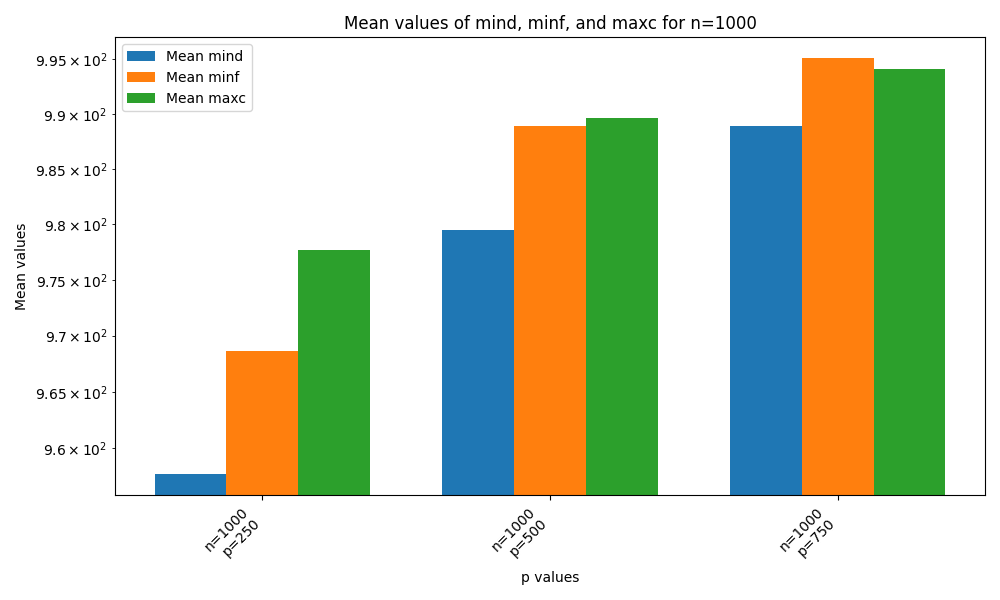
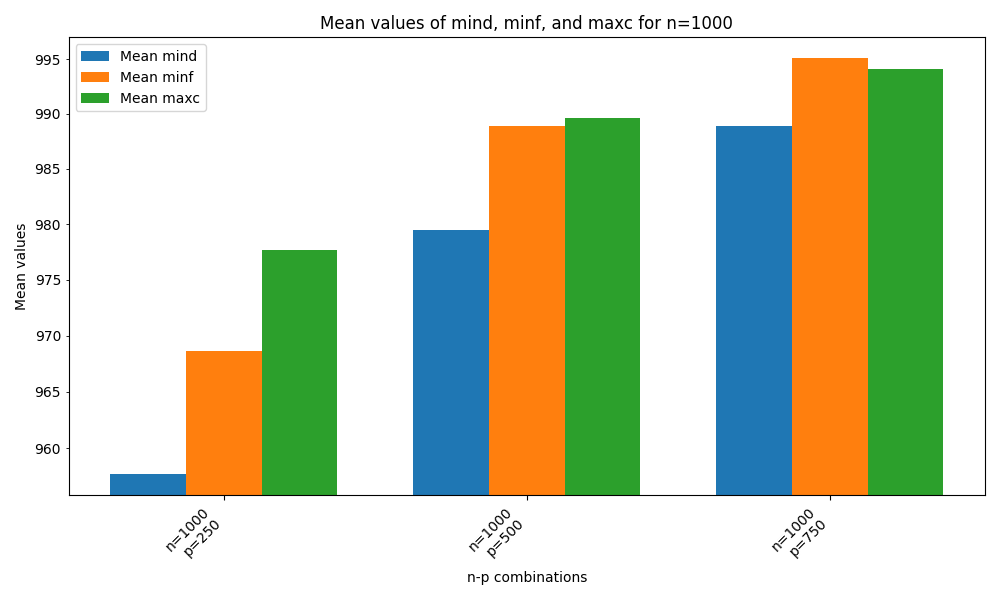
Fix mean and median plot axis labels

diff --git a/plot.py b/plot.py
@@ -1,6 +1,7 @@
 from collections import Counter
 
 import matplotlib.pyplot as plt
+from matplotlib import ticker
 import numpy as np
 import pandas as pd
 from scipy.stats import linregress
@@ -14,6 +15,7 @@ def read_csv(path: str) -> pd.DataFrame | None:
         return None
     df = df[df[df.columns[0]] != -1]
     return df
+
 
 n_values = ['0010', '0100', '1000']
 p_values = ['250', '500', '750']
@@ -82,12 +84,14 @@ for n in n_values:
         ax.bar(index, values['minf'], width=bar_width, label=f'{name} minf')
         ax.bar(index + bar_width, values['maxc'], width=bar_width, label=f'{name} maxc')
 
-        ax.set_xlabel('p values')
+        ax.set_xlabel('n-p combinations')
         ax.set_ylabel(f'{name} values')
         ax.set_title(f'{name} values of mind, minf, and maxc for n={n}')
         ax.set_xticks(index)
         ax.set_xticklabels(labels)
         ax.set_yscale('log')
+        fmt = ticker.StrMethodFormatter("{x:g}")
+        ax.yaxis.set_minor_formatter(fmt)
         ax.legend()
 
         plt.xticks(rotation=45, ha='right')
